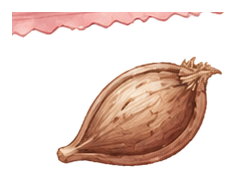
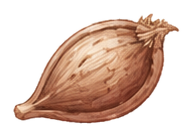
Checkpoint before asset alignment fixes

diff --git a/src/gesture/sunHoldMath.ts b/src/gesture/sunHoldMath.ts
@@ -1,0 +1,56 @@
+export const SUN_HOLD_DURATION_MS = 5000
+export const SUN_HOLD_MIN_MS = 4000
+export const SUN_HOLD_MAX_MS = 6000
+export const SUN_HOLD_LOSS_GRACE_MS = 300
+export const SUN_HOLD_DECAY_PER_SECOND = 0.2
+
+export interface SunHoldTracker {
+  progressMs: number
+  lastUpdateAt: number | null
+  invalidSince: number | null
+  completed: boolean
+}
+
+export function initialSunHoldTracker(): SunHoldTracker {
+  return {
+    progressMs: 0,
+    lastUpdateAt: null,
+    invalidSince: null,
+    completed: false,
+  }
+}
+
+export function updateSunHold(
+  current: SunHoldTracker,
+  validOpenPalm: boolean,
+  now: number,
+  durationMs = SUN_HOLD_DURATION_MS,
+): SunHoldTracker {
+  if (current.completed) return current
+  const safeDuration = Math.min(SUN_HOLD_MAX_MS, Math.max(SUN_HOLD_MIN_MS, durationMs))
+  const elapsed = current.lastUpdateAt === null
+    ? 0
+    : Math.max(0, Math.min(250, now - current.lastUpdateAt))
+
+  if (validOpenPalm) {
+    const progressMs = Math.min(safeDuration, current.progressMs + elapsed)
+    return {
+      progressMs,
+      lastUpdateAt: now,
+      invalidSince: null,
+      completed: progressMs >= safeDuration,
+    }
+  }
+
+  const invalidSince = current.invalidSince ?? now
+  const insideGrace = now - invalidSince < SUN_HOLD_LOSS_GRACE_MS
+  const progressMs = insideGrace
+    ? current.progressMs
+    : Math.max(0, current.progressMs - elapsed * SUN_HOLD_DECAY_PER_SECOND)
+  return {
+    progressMs,
+    lastUpdateAt: now,
+    invalidSince,
+    completed: false,
+  }
+}

diff --git a/src/data/flowerLayout.ts b/src/data/flowerLayout.ts
@@ -1,0 +1,19 @@
+import type { FlowerId } from './flowers'
+
+export interface FlowerGrowthLayout {
+  width: string
+  maxHeight: string
+  soilCrop: string
+}
+
+export const FLOWER_GROWTH_LAYOUT: Record<FlowerId, FlowerGrowthLayout> = {
+  rose: { width: '90%', maxHeight: '280px', soilCrop: '7%' },
+  sunflower: { width: '82%', maxHeight: '320px', soilCrop: '6%' },
+  lavender: { width: '72%', maxHeight: '320px', soilCrop: '6%' },
+}
+
+export const GARDEN_FLOWER_TYPE_SCALE: Record<FlowerId, number> = {
+  rose: 0.84,
+  sunflower: 0.94,
+  lavender: 0.7,
+}

diff --git a/src/game/gardenSlots.ts b/src/game/gardenSlots.ts
@@ -8,7 +8,7 @@ export interface GardenSlot {
   occupied: boolean
 }
 
-const ROW_SCALE = [0.78, 0.9, 1] as const
+const ROW_SCALE = [0.72, 0.86, 1] as const
 
 // Calibrated against the illustrated soil centres in planting-grid.png.
 // The slight per-row offsets preserve the artwork's hand-painted perspective.

diff --git a/scripts/crop-loose-seeds.py b/scripts/crop-loose-seeds.py
@@ -1,0 +1,138 @@
+#!/usr/bin/env python3
+"""Remove the disconnected packet strip from Bloom loose-seed PNGs.
+
+The generated seed files contain two independent alpha components: a torn
+packet strip at the top and the loose seed below it. This script keeps only
+the lower seed component, preserves soft alpha pixels around it, and skips
+files that already contain one isolated component.
+"""
+
+from __future__ import annotations
+
+import argparse
+from collections import deque
+from pathlib import Path
+import shutil
+
+from PIL import Image
+
+
+PROJECT_ROOT = Path(__file__).resolve().parents[1]
+SEED_ROOT = PROJECT_ROOT / "public" / "assets" / "seeds"
+BACKUP_ROOT = PROJECT_ROOT / "public" / "assets" / "_source-backup" / "seeds"
+SEED_FILES = (
+    "rose-seed.png",
+    "sunflower-seed.png",
+    "lavender-seed.png",
+)
+ALPHA_THRESHOLD = 8
+PADDING = 12
+
+
+def connected_components(alpha: Image.Image) -> list[tuple[int, tuple[int, int, int, int], float]]:
+    pixels = alpha.load()
+    width, height = alpha.size
+    seen: set[tuple[int, int]] = set()
+    components: list[tuple[int, tuple[int, int, int, int], float]] = []
+
+    for y in range(height):
+        for x in range(width):
+            if pixels[x, y] <= ALPHA_THRESHOLD or (x, y) in seen:
+                continue
+            queue = deque([(x, y)])
+            seen.add((x, y))
+            count = 0
+            left = right = x
+            top = bottom = y
+            y_total = 0
+            while queue:
+                current_x, current_y = queue.popleft()
+                count += 1
+                y_total += current_y
+                left = min(left, current_x)
+                right = max(right, current_x)
+                top = min(top, current_y)
+                bottom = max(bottom, current_y)
+                for next_point in (
+                    (current_x - 1, current_y),
+                    (current_x + 1, current_y),
+                    (current_x, current_y - 1),
+                    (current_x, current_y + 1),
+                ):
+                    next_x, next_y = next_point
+                    if not (0 <= next_x < width and 0 <= next_y < height):
+                        continue
+                    if next_point in seen or pixels[next_x, next_y] <= ALPHA_THRESHOLD:
+                        continue
+                    seen.add(next_point)
+                    queue.append(next_point)
+            components.append((count, (left, top, right + 1, bottom + 1), y_total / count))
+
+    return components
+
+
+def seed_crop_box(image: Image.Image) -> tuple[int, int, int, int] | None:
+    alpha = image.getchannel("A")
+    components = connected_components(alpha)
+    total_visible = sum(component[0] for component in components)
+    substantial = [
+        component
+        for component in components
+        if component[0] >= max(40, total_visible * 0.01)
+    ]
+    if len(substantial) <= 1:
+        return None
+
+    lower_components = [
+        component
+        for component in substantial
+        if component[2] >= image.height * 0.42
+    ]
+    if not lower_components:
+        raise ValueError("No lower loose-seed component was found")
+
+    _, (left, top, right, bottom), _ = max(lower_components, key=lambda component: component[0])
+    return (
+        max(0, left - PADDING),
+        max(0, top - PADDING),
+        min(image.width, right + PADDING),
+        min(image.height, bottom + PADDING),
+    )
+
+
+def process(path: Path, apply: bool) -> str:
+    with Image.open(path) as source:
+        image = source.convert("RGBA")
+        crop_box = seed_crop_box(image)
+        if crop_box is None:
+            return f"ALREADY ISOLATED  {path.relative_to(PROJECT_ROOT)} {image.width}x{image.height}"
+        cropped = image.crop(crop_box)
+        report = (
+            f"{'CROPPED' if apply else 'WOULD CROP':17} "
+            f"{path.relative_to(PROJECT_ROOT)} "
+            f"{image.width}x{image.height} -> {cropped.width}x{cropped.height} "
+            f"box={crop_box}"
+        )
+        if not apply:
+            return report
+
+        BACKUP_ROOT.mkdir(parents=True, exist_ok=True)
+        backup_path = BACKUP_ROOT / path.name
+        if not backup_path.exists():
+            shutil.copy2(path, backup_path)
+        cropped.save(path, format="PNG", optimize=True, compress_level=9)
+        return report
+
+
+def main() -> int:
+    parser = argparse.ArgumentParser(description=__doc__)
+    parser.add_argument("--apply", action="store_true", help="Back up originals and write isolated seed PNGs.")
+    args = parser.parse_args()
+    print(f"[{'APPLY' if args.apply else 'DRY RUN'}] loose seed crop")
+    for name in SEED_FILES:
+        print(process(SEED_ROOT / name, args.apply))
+    return 0
+
+
+if __name__ == "__main__":
+    raise SystemExit(main())